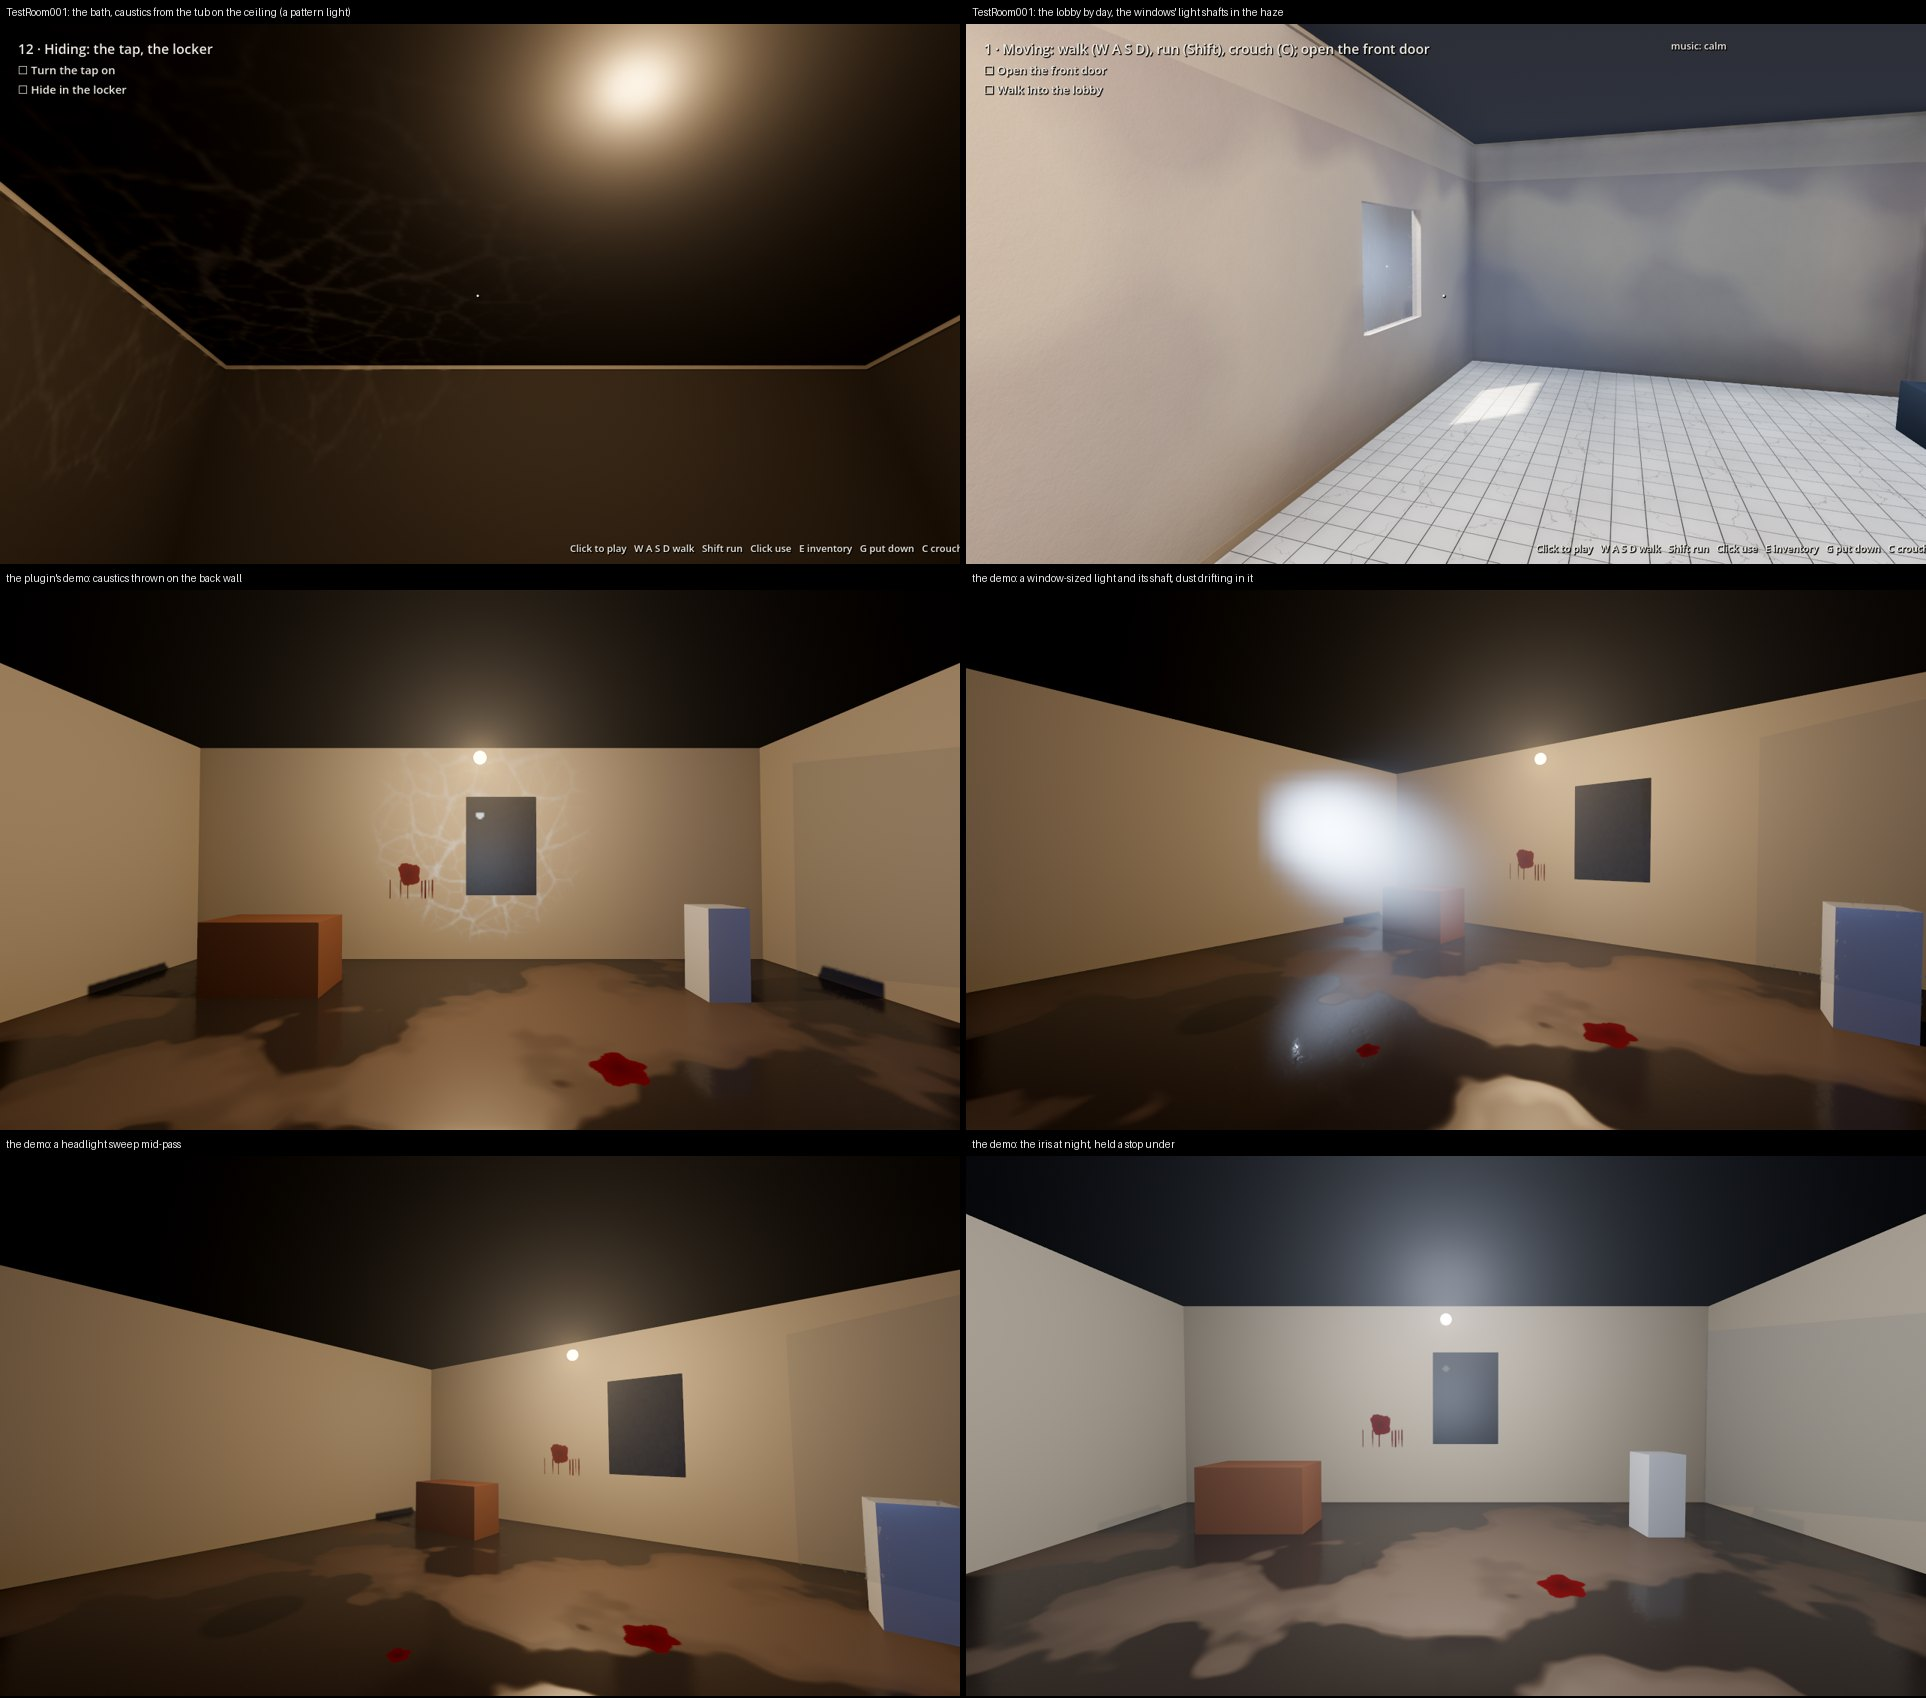
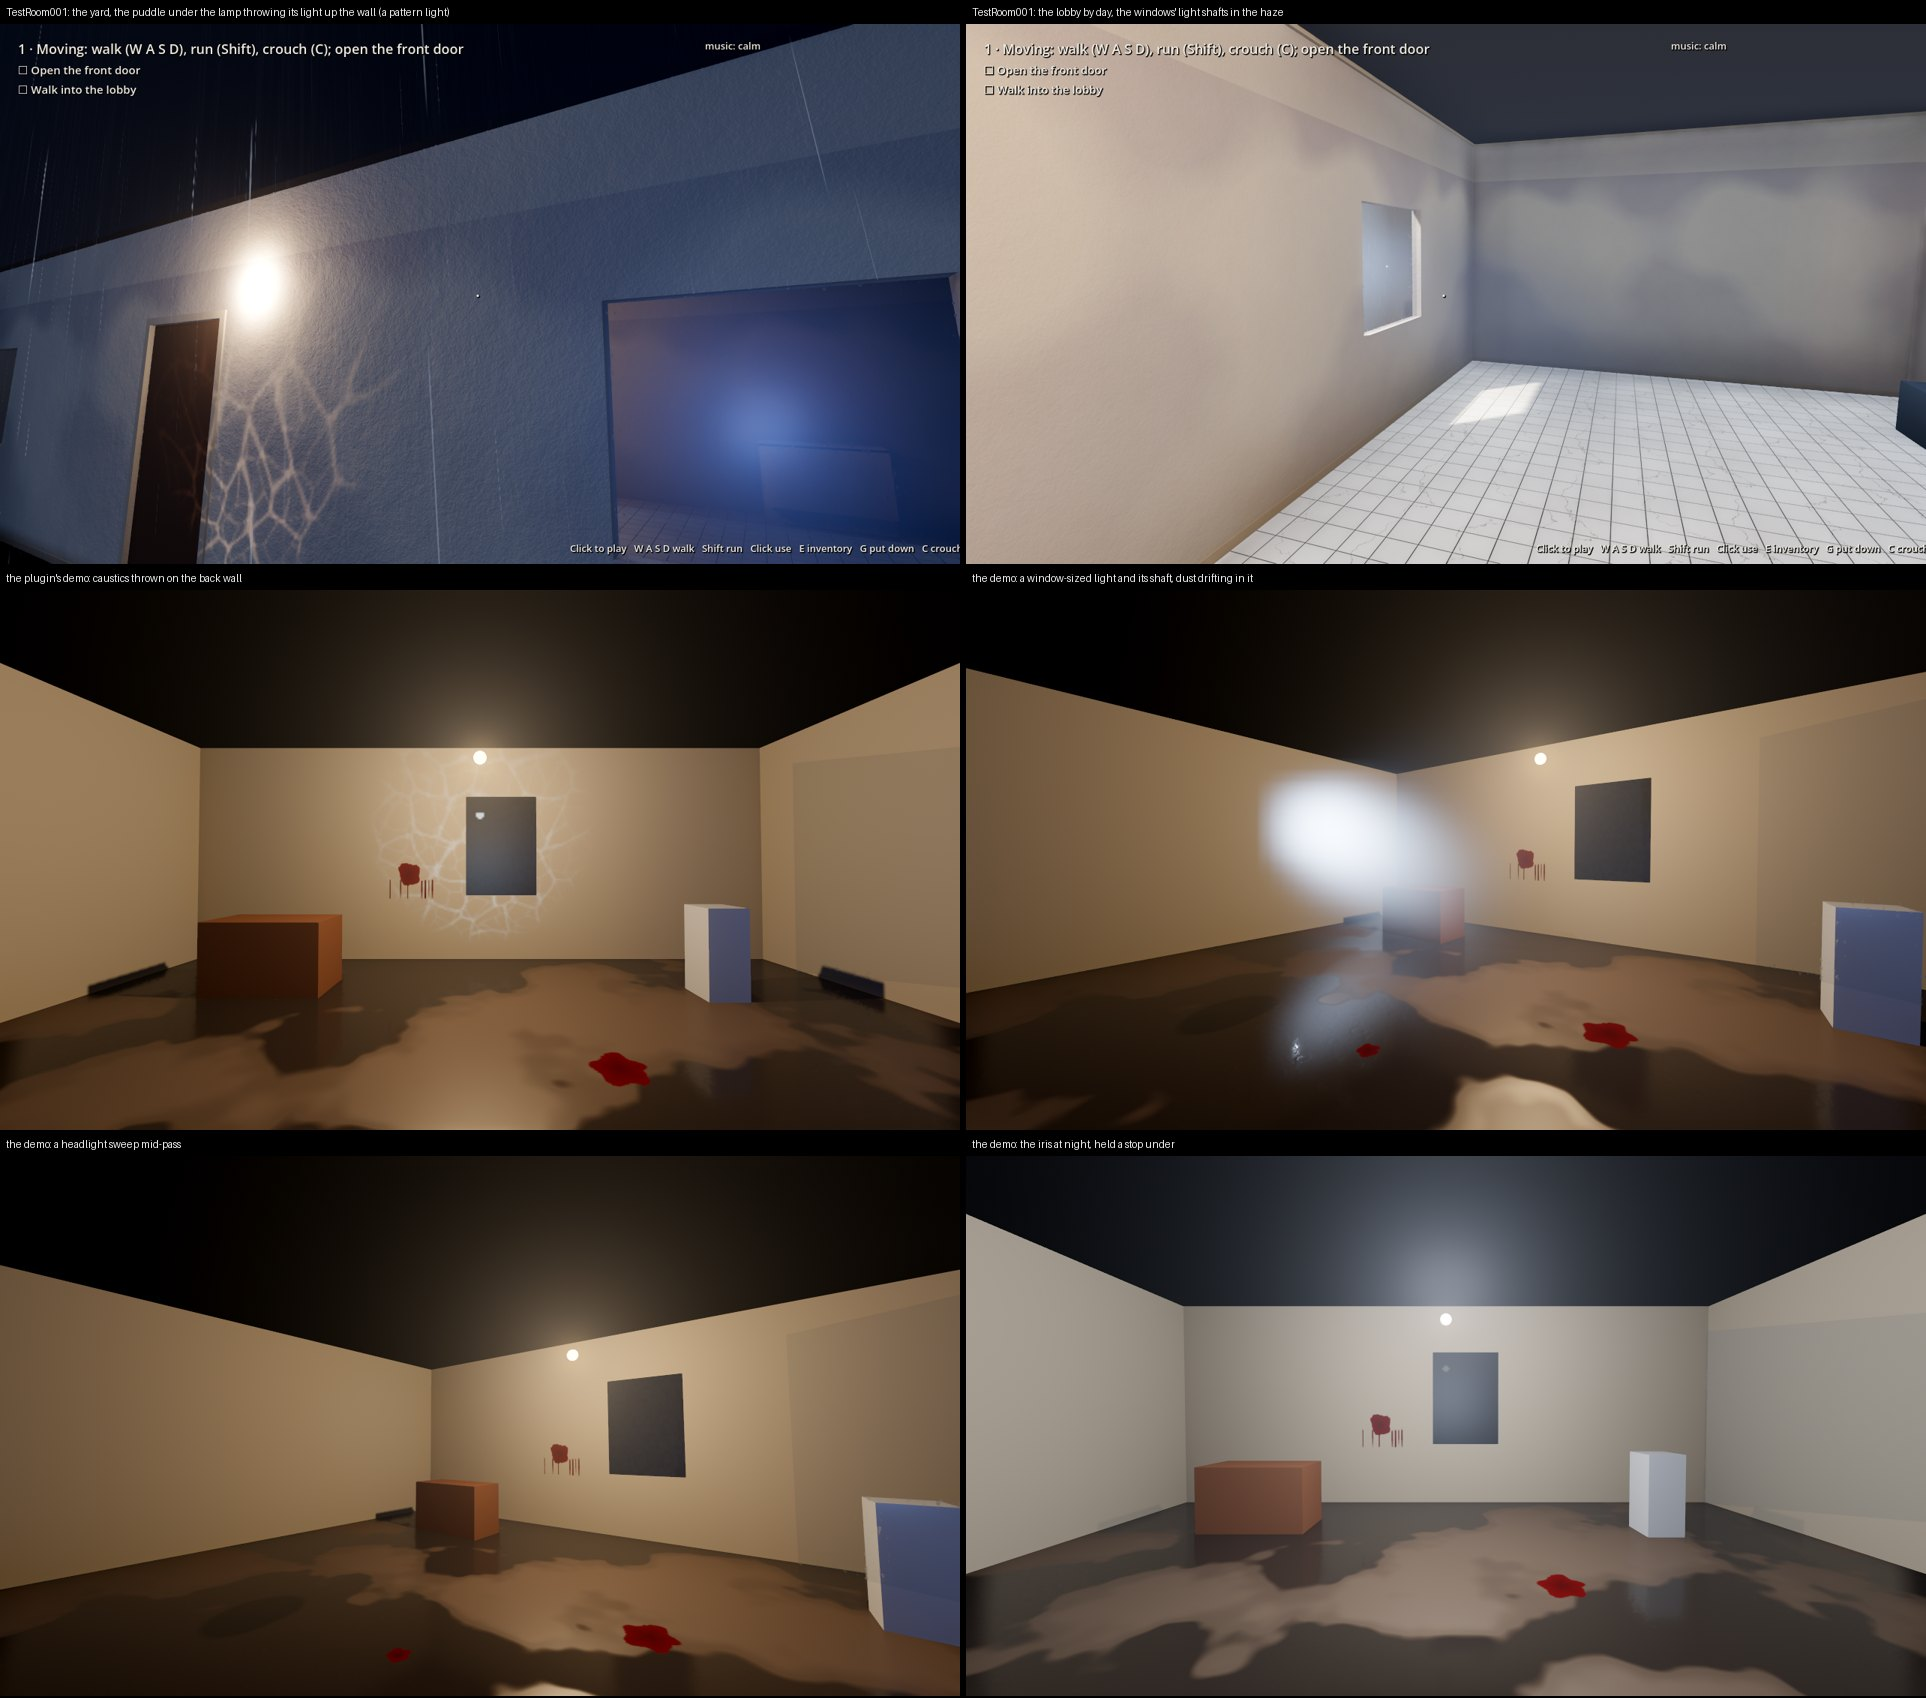
From the user's note on the Chilla's Art references (The Closing Shift's wet night street: puddles, metal and shop windows carrying the lights): the patterns belong on the shinier, wetter, outdoor things, not ceilings as a rule, so TestRoom001's caustic moves from the bath's ceiling to the puddle un
Claude-Session: https://claude.ai/code/session_014EE6XX4YZUtcfj7aXd8rgR

Changed region(s): [[0.0, 0.0, 0.4984, 0.3433]]

diff --git a/Content/Python/storykit/godot.py b/Content/Python/storykit/godot.py
@@ -517,6 +517,11 @@ class LevelWriter:
             c = s2g((x0 + w / 2, y0 + d / 2, z0 + h / 2))
             self.t.node(self.uname(f"__gi_{room['id']}"), "VoxelGI", "GI", {"transform": xform(c), "size": v3(w + 1.0, h + 1.0, d + 1.0), "subdiv": "0"},
                         {"gi": {"room": room["id"]}})
+            # a reflection probe per room too (Light Kit's one Box Reflection Capture per room): metal, glossy cabinets
+            # and wet floors reflect their own room where the screen-space reflections can't reach (off-screen, behind)
+            self.t.node(self.uname(f"__probe_{room['id']}"), "ReflectionProbe", "GI", {"transform": xform(c), "size": v3(w + 0.2, h + 0.2, d + 0.2),
+                        "update_mode": "0", "box_projection": "true", "interior": "true", "max_distance": f(max(w, d, h) * 2.0), "intensity": "1.0"},
+                        {"probe": {"room": room["id"]}})
 
     def write(self):
         things = L.index(self.story)[0]

diff --git a/docs/games/TestRoom001.md b/docs/games/TestRoom001.md
@@ -23,7 +23,7 @@ hall (metal, dark), a room (carpet) and outside.
 
 | # | Node | Where | What it tests (the format's words) | Its checklist |
 |---|---|---|---|---|
-| 1 | `n_arrive` | yard, lobby | walking, running (Shift), crouching (C), footsteps by floor (dirt, tile), a door opened by a click, `enter` a room, `fade`, `music`, `objective`, `after` | Open the front door · Walk into the lobby |
+| 1 | `n_arrive` | yard, lobby | walking, running (Shift), crouching (C), footsteps by floor (dirt, tile), a door opened by a click, `enter` a room, `fade`, `music`, `objective`, `after`, the puddle under the yard's lamp throwing its light up the wall (a `pattern` light: caustics, `aim`ed at the wall), a reflection probe in every room | Open the front door · Walk into the lobby |
 | – | `n_hello` | lobby (its windows throw light `shaft`s into the haze; a car `sweep`s past the first every half minute) | a scene: her name a word (`{guide}`: "the guide" till the scene sets `met_aoi`, then "Aoi"; `game.words`, STORY_FORMAT §9.14), `stage`, `view`, soft camera, a `look` and a `tracker`, seams (`blink`, `glance`), a reply with its thoughts and karma (`sets`) as a conversation card (three answers: Ready's reply two lines and `go` past the line for Not great, Say nothing's `end`; STORY_FORMAT §9.9), a body track (a `behave` cue: from her second line Aoi walks to the bench and sits there till the shot ends; §3.8), the player's thought (`think`) typing itself out and retyped (`retype`: Easy. becomes Fine.; §9.15), cues on clip edges (a sound, a light flicker, a `state`: the kitchen's TV to static), a face row (`faces`: an expression, then a loop of its held part to the end), `sets` | (watched) |
 | 2 | `n_front` | lobby | `behave idle` (Aoi outside), the `knock` trick, the peephole (`peeping`), the latch (`locked`), a line said (`say`) | Look through the peephole · Shut the door and lock it |
 | 3 | `n_doors` | keys, closet, store, vault | a sliding door, a door `locked_by` an item (the brass key), `pickup`, a `note` read, a `combo` keypad setting a flag that unlocks a `locked_by: flag:` door, `slam_behind`, `exit` | Find the brass key · Open the closet · Read the vault code · Open the vault · Take the fuse |
@@ -35,7 +35,7 @@ hall (metal, dark), a room (carpet) and outside.
 | 9 | `n_games` | games | `roll` (a die, its face heard: `rolled`; a six is an achievement), a board `game` (chō-han with Aoi: `played`, `result`), `ask` (answered, karma) | Roll the die · Play chō-han · Answer Aoi |
 | 10 | `n_dark` | dark | a room with its light off, the flashlight (`torch` item, F, `torch` on, `flicker`, `dead`, `works`), `show` (batteries), a `glimpse` led by a sound, `if` | Find the flashlight · Switch it on · Find the batteries · Get out |
 | 11 | `n_library` | library | `note`, examining a small `inspect` thing in the hands (the photo turned over), a big one's card (the bookshelf), `look` (the painting two seconds), a **secret** (`secret` beats, `show`), an **interrupt** (taking the doll: `n_doll`, its scene, a bad ending) | Read the diary · Turn the photo over · Look at the bookshelf · Look at the painting |
-| 12 | `n_bath` | bath | the tub's light a `pattern` (caustics on the ceiling: a spot `aim`ed up, its pattern drawn into its projector), footsteps on water, a tap's life, a `locker` (`hidden`), the look-away `swap`, a task ticked by its beat (`tick`: the station ends with you in the locker, the next scene taking the eye from there) | Turn the tap on · Hide in the locker |
+| 12 | `n_bath` | bath | footsteps on water, a tap's life, a `locker` (`hidden`), the look-away `swap`, a task ticked by its beat (`tick`: the station ends with you in the locker, the next scene taking the eye from there) | Turn the tap on · Hide in the locker |
 | – | `n_talk` | workshop | a scene with `variants` (`pick`), a timed choice with karma (`event: choose`), `enter` fade, a cam `push`, bodies (`block`, Kimodo `segments`, tiers, `hero`), cues (`music`, `light` dim), `sets` an objective | (watched) |
 | 14 | `n_hide` | workshop | a gameplay round (`play: hide`: its seeker, loops, barks, spots), a result choice; found: the death scene picked by where (`pick_by: found_at`, a `reach` for the player), `count`, a **death** with `retry` and the branch map | (the round's card: hidden or found) |
 | 15 | `n_run` | corridor | a timed task (`timer`, its `fail` a death), `music` chase | Get to the atrium |

diff --git a/docs/GODOT_LOOK.md b/docs/GODOT_LOOK.md
@@ -80,7 +80,15 @@ passing (slow noise, `open` the cover). `scale` is metres on the aimed surface: 
 worked out from the spread and the distance (the export writes it), so a 60 cm caustic is 60 cm on the wall. A
 pattern flickers with its light (the flicker modes multiply the energy). The desk shows such a light as a spot aimed
 at its target, the pattern itself only in Godot. The demo throws caustics on the back wall and measures the light
-and dark across it and that it moves (LOOKPLUGIN); TestRoom001's bath has one on its ceiling.
+and dark across it and that it moves (LOOKPLUGIN). **Where they belong** (the user, 2026-10-29, on the Chilla's
+Art references the kit was drawn from: The Closing Shift's wet night street, its puddles and shop windows carrying
+the lights): the patterns are for the shinier, wetter, outdoor things, not ceilings as a rule: caustics from a rain
+puddle under a street lamp thrown up the wall beside it, moonlight through leaves onto wet ground, a blind's stripes
+across a desk by a window; TestRoom001's example is the puddle under the yard's lamp lighting the lobby's wall. The
+reflections those references show (metal, wet ground, windows) come from the wet floors (§2), the glass panes (§4),
+the mirrors (§5b) and, since that evening, **a ReflectionProbe per room** (the kit's one Box Reflection Capture a
+room: the export writes one beside each room's VoxelGI, box-projected, interior, updated once), so metal and glossy
+things reflect their room where the screen-space reflections can't reach.
 
 **Light shafts** (`shaft.gd`, `HSShaft`, `shaft.gdshader`; after Light Kit's Window shaft card, 2026-10-29): the beam a
 window throws into a room, dust drifting in it. The realism preset's haze is Godot's volumetric fog, and every light

diff --git a/docs/CONTINUE.md b/docs/CONTINUE.md
@@ -31,6 +31,12 @@ Kit pieces, then this). The local session does, in this order, with `GPU=1` and 
      the lobby's shafts by day (the story's time, or the lookshot's `--time=day`) and the car passing its first
      window every half minute (or a `{"sweep": "lobby"}` beat), the iris closing against a lamp and sitting a stop
      under at night. The cloud's pictures: `docs/godot_sheets/2026-10-29_lightkit.jpg`.
+   The user's last note before pausing: the patterns were drawn from Chilla's Art's wet night street (The Closing
+   Shift: puddles, metal and shop windows carrying the lights), so they belong on the shinier, wetter, outdoor things,
+   not ceilings as a rule; the bath's ceiling caustic became the puddle under the yard's lamp lighting the lobby's
+   wall, and every room got a ReflectionProbe (metal and wet floors reflecting their room). Look at both in Godot;
+   the cloud couldn't see the reference screenshots themselves (images in another session's transcript don't come
+   through), so judge the placement against them yourself.
 2. **Then the open items from the user's runs**: the square light patch under a distant counter (GODOT_LOOK §7);
    whether the shafts want more or less (`strength`; the window light's `light_volumetric_fog_energy`, 4); whether
    the splashes' glints read at a real frame rate (sparse by design: `docs/godot_sheets/2026-10-29_splashes.jpg`).
